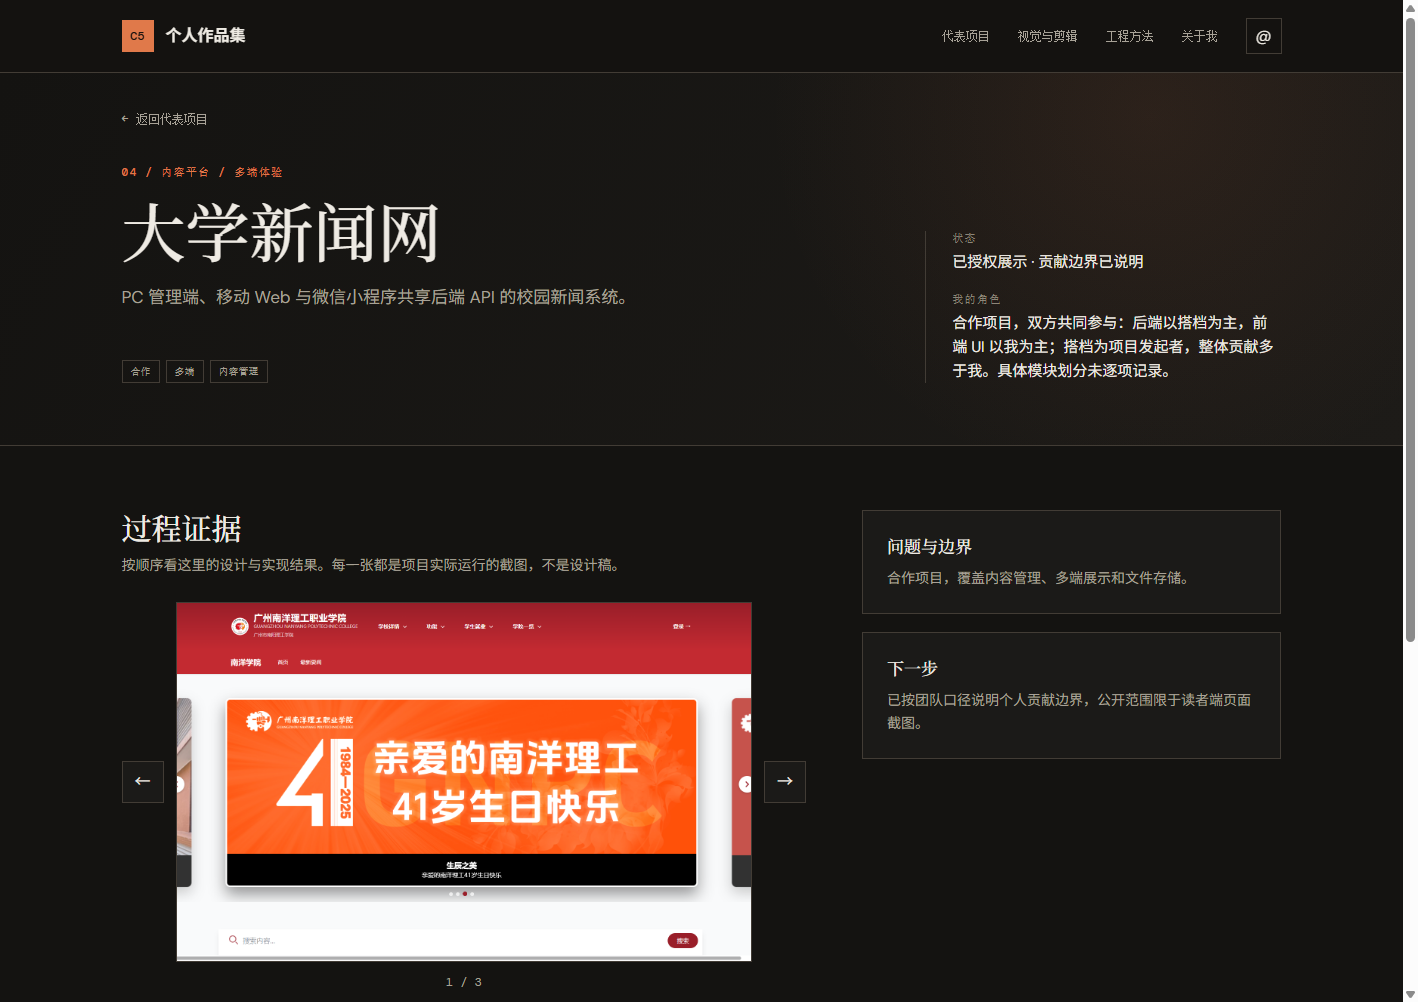
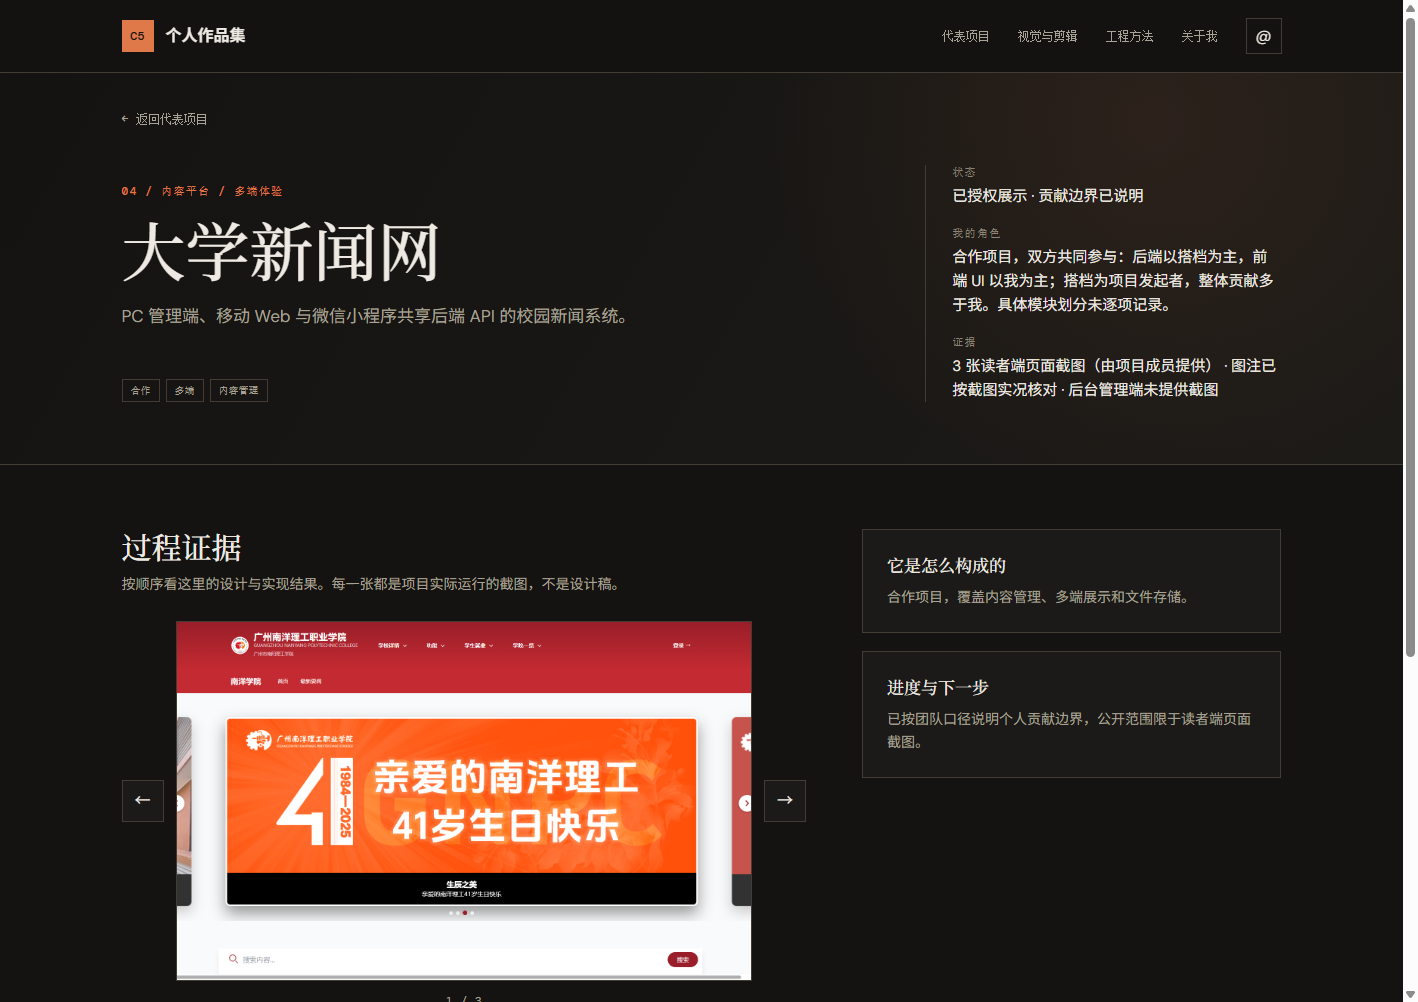
refactor: 详情页减脂并修掉验收脚本的截图目录缺陷
- 删除 .gallery-hint：它与可见箭头、「点击放大」浮层三处重复解释同一操作；
  键盘切换本身仍由 onKeydown 的 ArrowLeft/ArrowRight 支持，能力未减少
- 证据行从图组第 9 个元素提到首屏事实清单：知衡的「8 次版本化迁移 · 51 项后端测试」
  这类硬数字现在第一屏可见；内容原文未改，只换了位置
- 修正两个与内容不符的卡片标题：「问题与边界」渲染的其实是构成描述，改为「它是怎么构成的」；
  「下一步」渲染的其实是状态，改为「进度与下一步」。新标题已对 5 个案例逐一核对均成立
- browser-check：截图目录改为按脚本所在仓库根解析。此前相对当前工作目录，
  从 project/frontend 运行会把截图写到第二处，导致旧截图被误读两次
- 两条断言随设计同步：事实清单 3→4 项；证据断言由 .gallery-evidence 改为首屏 .fact-evidence
  （位置变了，检查强度不变，不是放宽门禁）
- 清理因移动而失效的两条 CSS 规则，并把删除理由留在注释里

diff --git a/project/frontend/src/views/ProjectView.vue b/project/frontend/src/views/ProjectView.vue
@@ -85,6 +85,7 @@ watch(() => route.params.slug, slug => { if (slug) load(slug) })
               <div><dt>状态</dt><dd>{{ project.status || project.outcome }}</dd></div>
               <div><dt>我的角色</dt><dd>{{ project.role }}</dd></div>
               <div v-if="project.repoName"><dt>仓库名</dt><dd>{{ project.repoName }}</dd></div>
+              <div v-if="project.evidence" class="fact-evidence"><dt>证据</dt><dd>{{ project.evidence }}</dd></div>
             </dl>
           </div>
         </div>
@@ -129,8 +130,6 @@ watch(() => route.params.slug, slug => { if (slug) load(slug) })
                   <img :src="slide.src" alt="" />
                 </button>
               </div>
-              <p class="gallery-hint">← → 切换截图 · 点击图片放大</p>
-              <p v-if="project.evidence" class="gallery-evidence">证据状态：{{ project.evidence }}</p>
             </div>
 
             <div v-if="zoomed && currentSlide" class="lightbox" role="dialog" aria-modal="true" aria-label="放大查看截图" @click.self="zoomed = false">
@@ -144,11 +143,11 @@ watch(() => route.params.slug, slug => { if (slug) load(slug) })
 
           <aside class="detail-aside" v-reveal="1">
             <div class="detail-card">
-              <h3>问题与边界</h3>
+              <h3>它是怎么构成的</h3>
               <p>{{ project.background }}</p>
             </div>
             <div class="detail-card">
-              <h3>下一步</h3>
+              <h3>进度与下一步</h3>
               <p>{{ project.outcome }}</p>
             </div>
           </aside>

diff --git a/project/frontend/src/style.css b/project/frontend/src/style.css
@@ -30,8 +30,8 @@
 .gallery-thumbs button:hover{opacity:.85}
 .gallery-thumbs button.active{border-color:var(--warm);opacity:1}
 .gallery-thumbs img{width:100%;height:100%;object-fit:cover;object-position:top center;display:block}
-.gallery-hint,.gallery-evidence{margin:0;font:11px var(--mono);color:var(--faint)}
-.gallery-evidence{border-left:2px solid var(--line);padding-left:10px;line-height:1.7}
+/* .gallery-hint 与 .gallery-evidence 已移除：前者与可见箭头、"点击放大"浮层三处重复解释同一操作；
+   后者承载的硬数字（迁移次数、测试数）已提到首屏事实清单，二级页面不再重复展示同一信息。 */
 @media(max-width:900px){.gallery-stage{aspect-ratio:4/3}.gallery-thumbs button{width:58px;height:38px}.gallery-frame{gap:8px}.gallery-nav{width:36px;height:36px;font-size:15px}.lightbox{padding:20px;gap:8px}.lightbox img{max-height:calc(100vh - 150px)}.lightbox-caption{left:20px;right:20px;bottom:14px;font-size:12px}}
 a.project-card{text-decoration:none;color:inherit}
 a.project-card:focus-visible{outline:2px solid var(--warm);outline-offset:3px}
